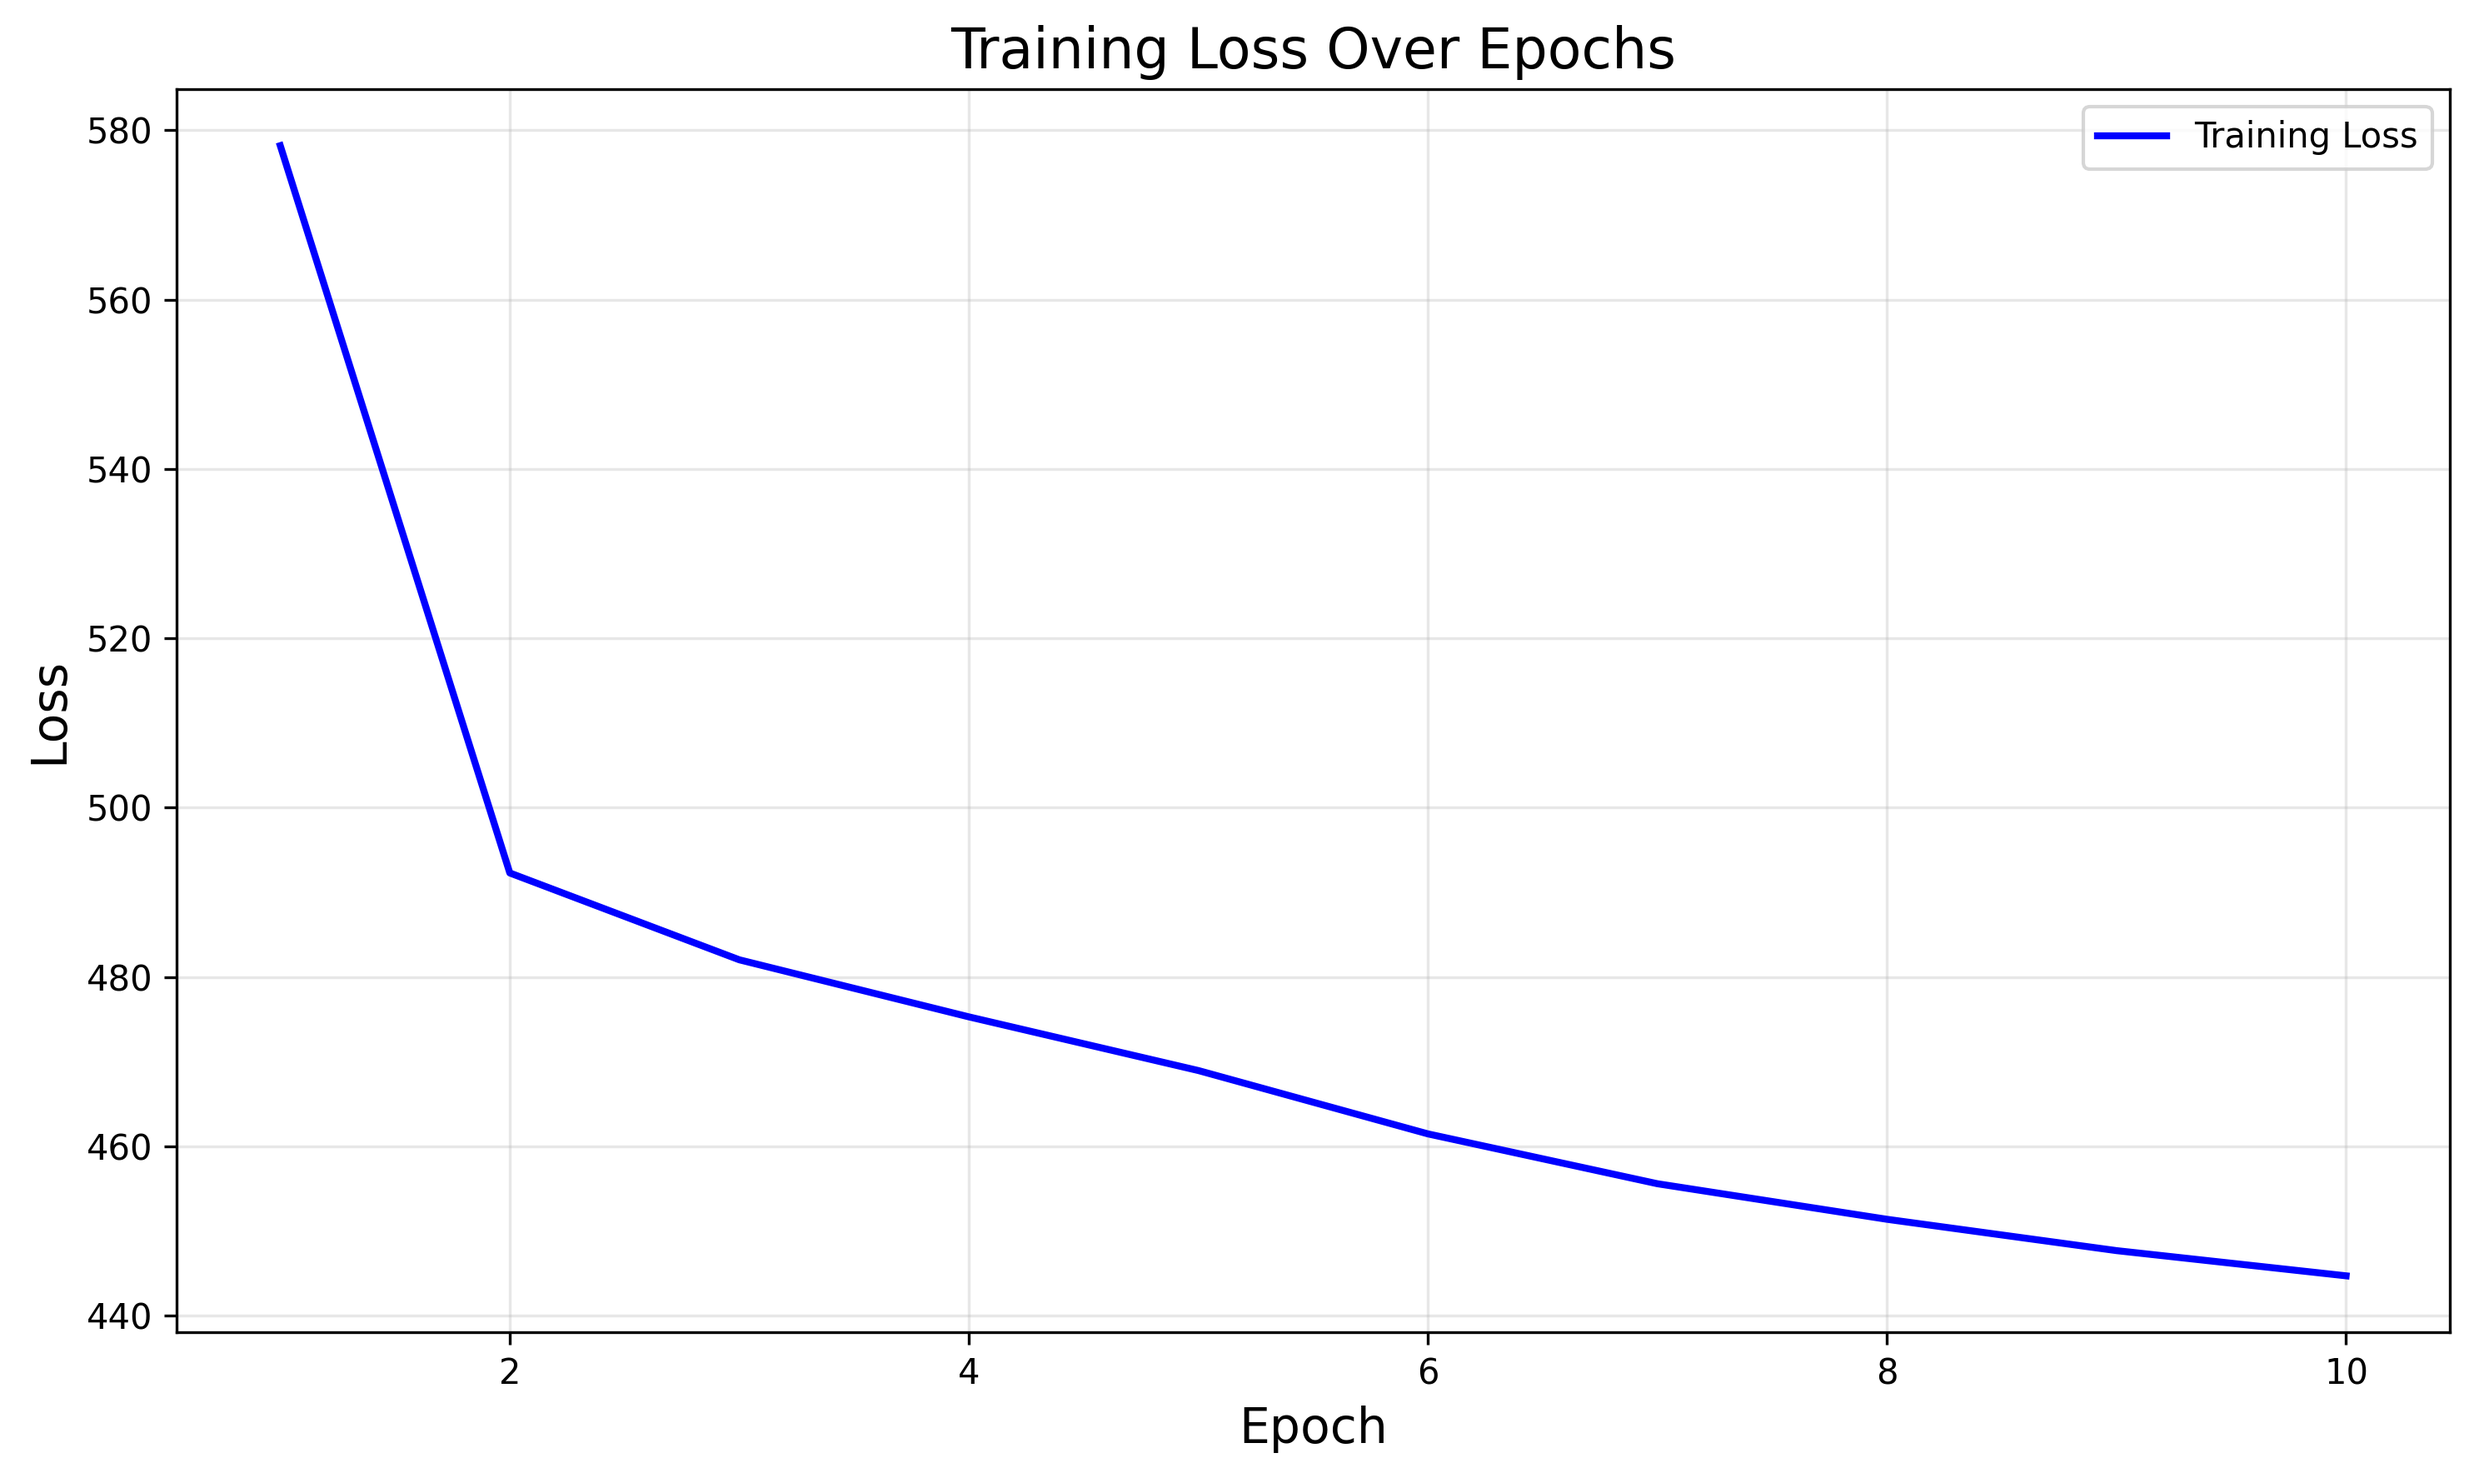
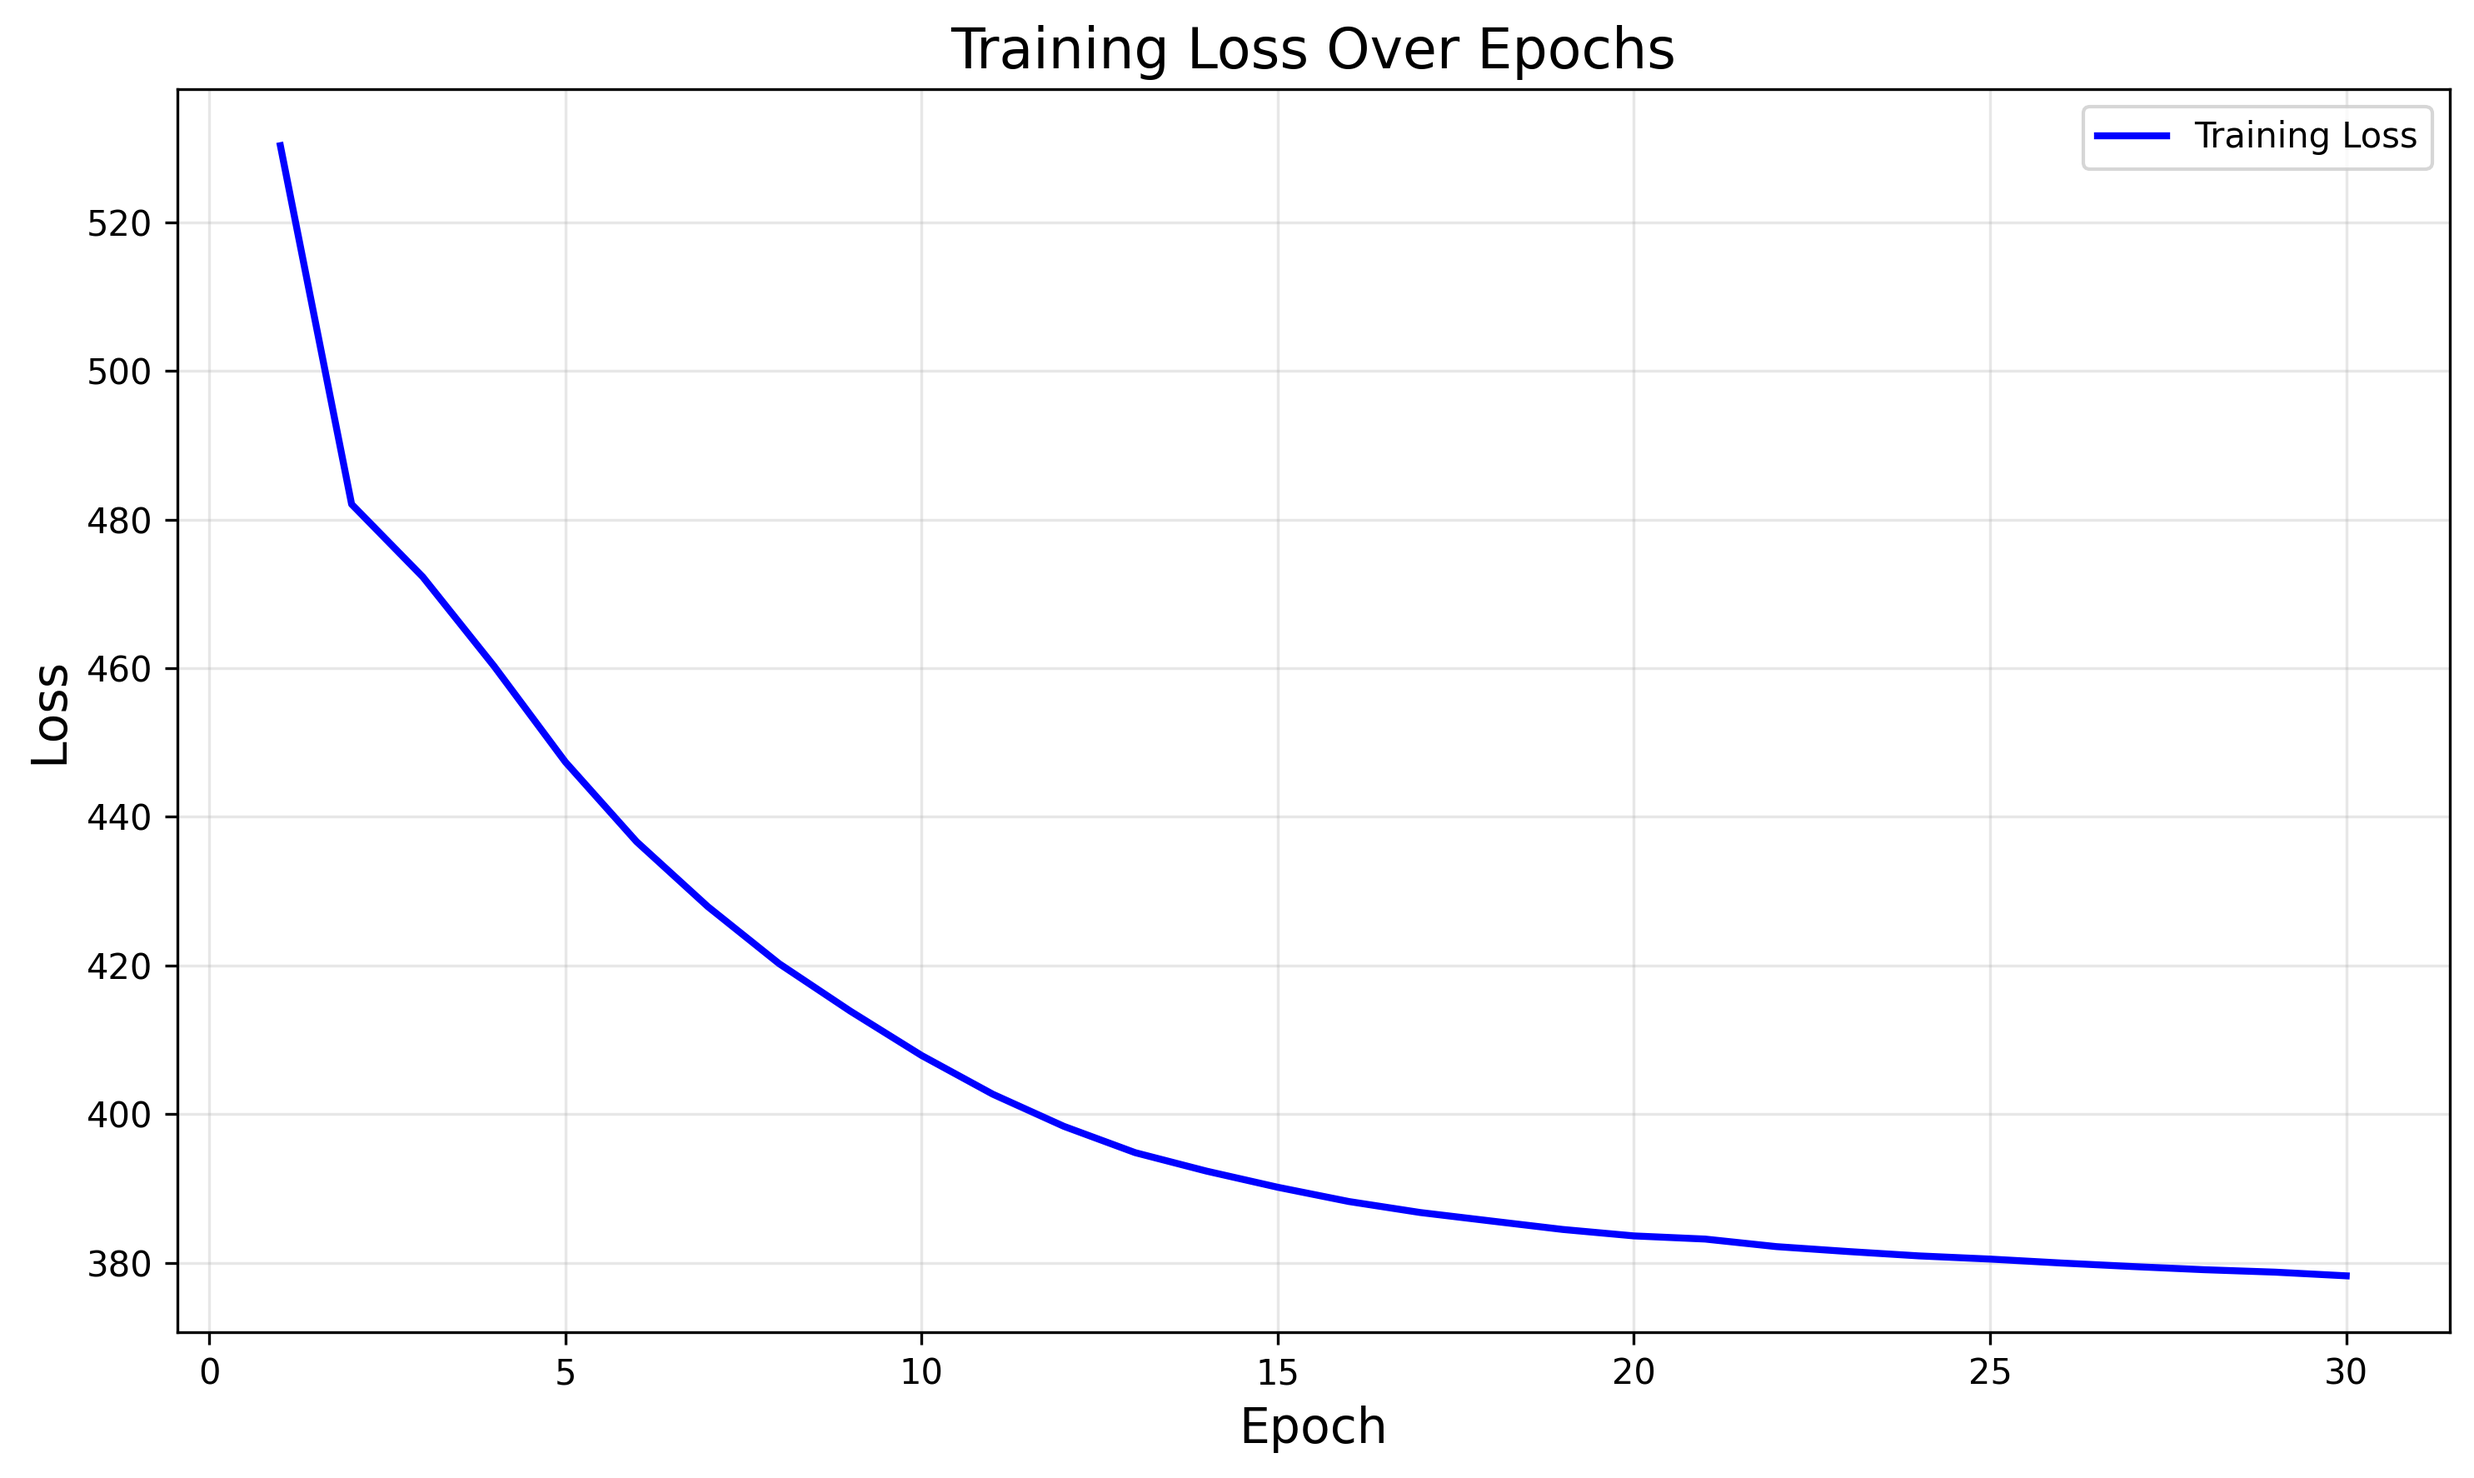
Went with Adam optimiser with 0.00005, and some really nice symbolic images

diff --git a/executables/train.py b/executables/train.py
@@ -49,10 +49,9 @@ def main():
     device = torch.device("cuda" if torch.cuda.is_available() else "cpu")
     model = TextToImageTransformer(vocab_size=len(tokeniser.vocab)).to(device)
 
-    optimizer = torch.optim.AdamW(
+    optimizer = torch.optim.Adam(
         model.parameters(), 
-        lr=0.00002,
-        weight_decay=0.1
+        lr=0.00005
     )
     perceptual_loss = PerceptualLoss().to(device)
 
@@ -81,7 +80,7 @@ def main():
             real_left_image = data_batch["left_image"].to(device)
             real_right_image = data_batch["right_image"].to(device)
 
-            predicted_left_image, predicted_right_image, kl_loss = model(tokenised_text)
+            predicted_left_image, predicted_right_image = model(tokenised_text)
             p_loss = perceptual_loss(predicted_left_image, real_left_image) + perceptual_loss(predicted_right_image, real_right_image)
             total_batch_loss = perceptual_loss_weighting * p_loss
 

diff --git a/executables/generate_images.py b/executables/generate_images.py
@@ -27,7 +27,7 @@ def adapative_binary_pixels(image):
     binary = torch.where(image > threshold, torch.ones_like(image), -torch.ones_like(image))
     return binary
 
-def generate_and_save_images(model, tokeniser, text, device, output_dir="../model_answers"):
+def generate_and_save_images(model, tokeniser, text, device, output_dir="../old_outputs"):
     model.eval()
     tokens = tokeniser.encode(text)
     
